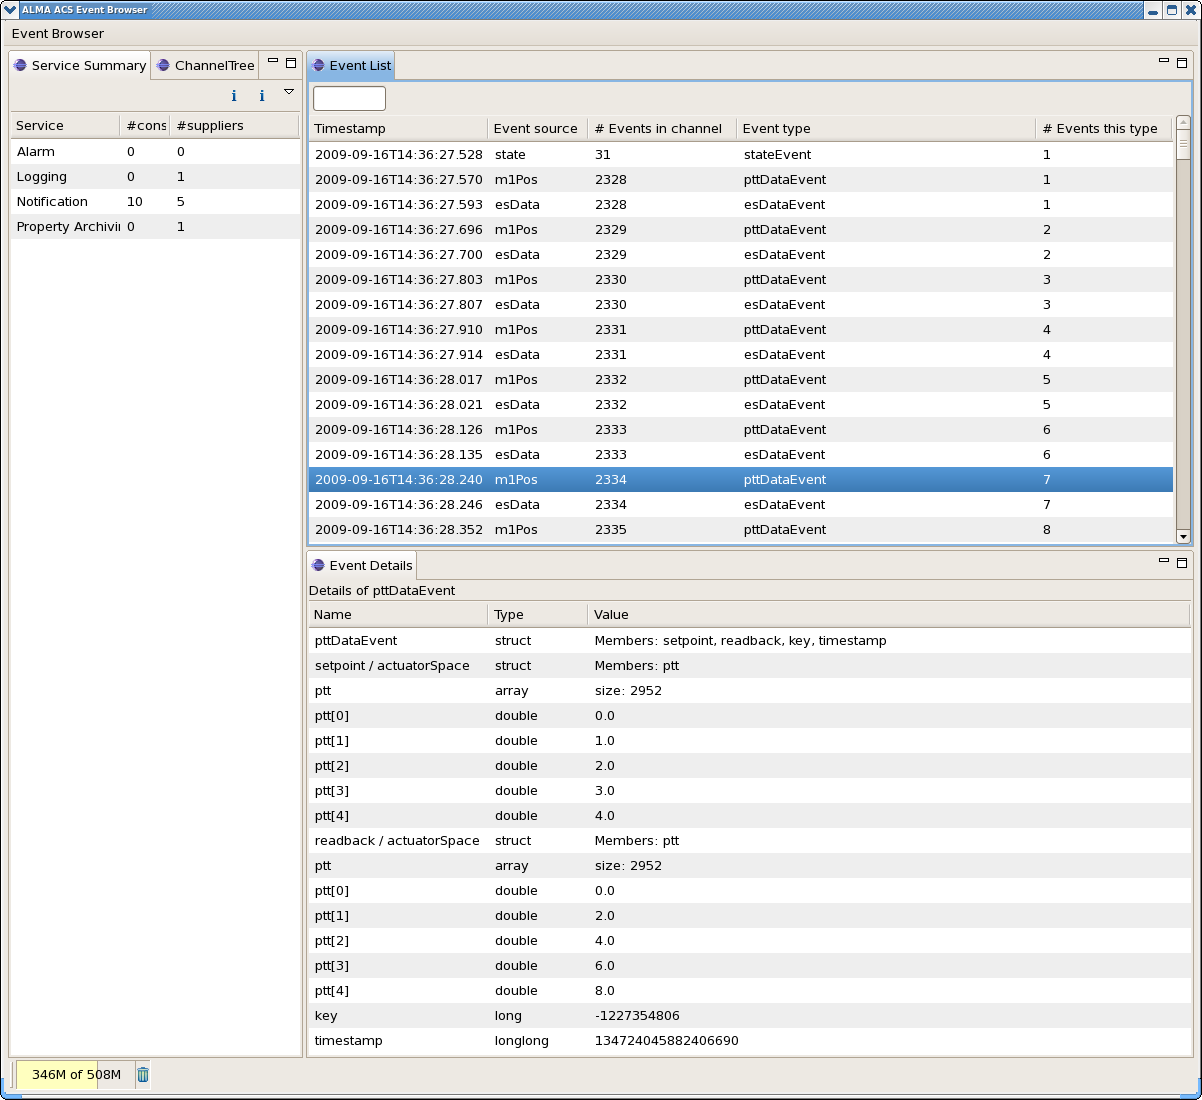
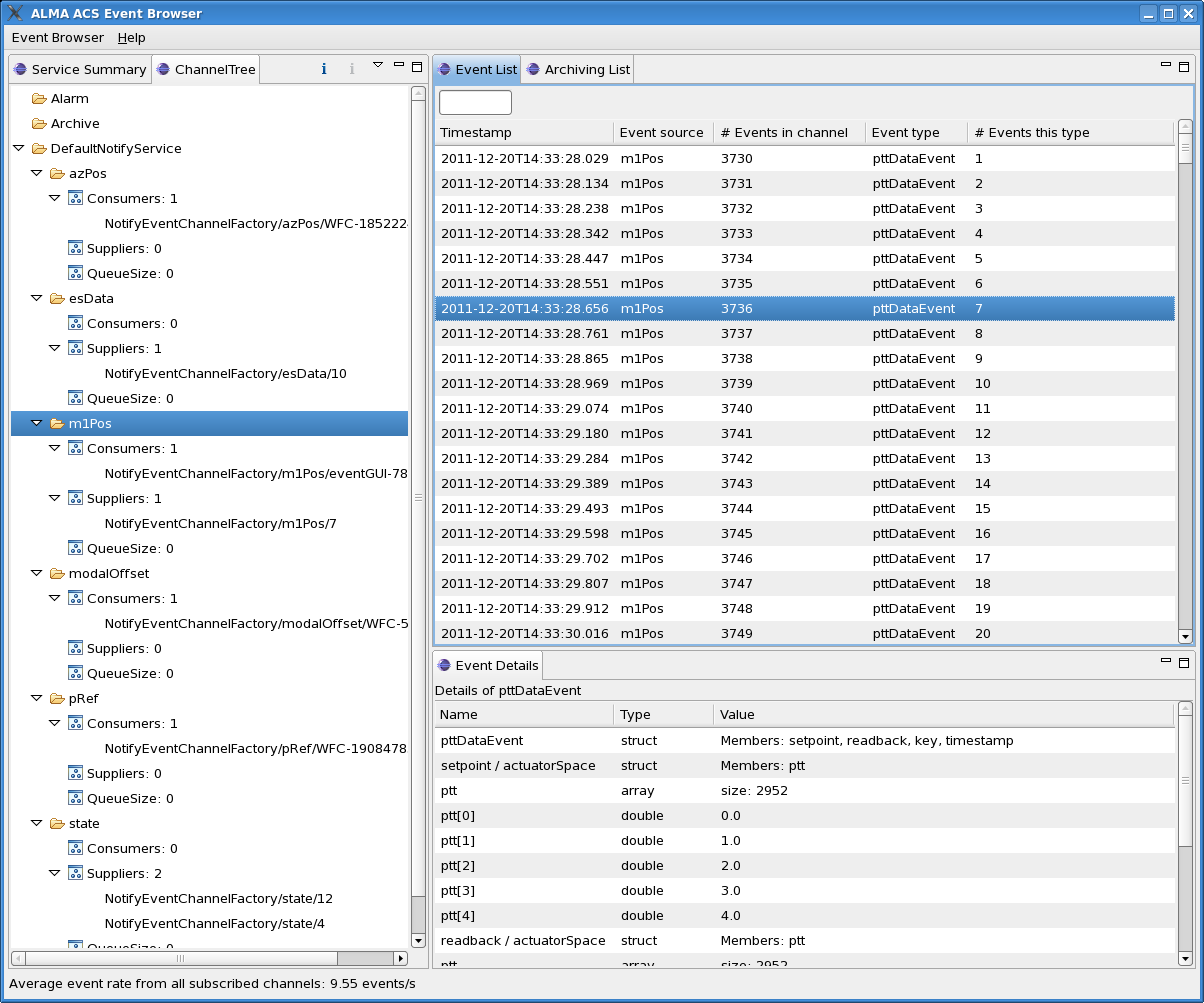
Online help docs and screenshot have been updated to describe new functionality: selective subscribe/unsubscribe, TAO M&C Statistics display, subscribed event rate in status bar.
git-svn-id: https://alma-svn.aoc.nrao.edu/p2/trunk/ACS@167016 523d945c-050c-4681-91ec-863ad3bb968a

Changed region(s): [[0.0, 0.0, 1.0, 1.0], [0.5849, 0.7109, 0.8619, 0.8036], [0.5849, 0.8036, 0.6156, 0.8654]]

diff --git a/LGPL/CommonSoftware/acsGUIs/eventGUI/html/concepts/maintopic.html b/LGPL/CommonSoftware/acsGUIs/eventGUI/html/concepts/maintopic.html
@@ -11,7 +11,10 @@
 The eventGUI is intended as a replacement for the Python-based acseventbrowser,
 which has shown stability problems in the past. The new, Eclipse RCP (Java)-based
 eventGUI does not include all the functionality that was offered by its
-predecessor, but should be easier to use and understand.
+predecessor, but has other functionality not in the Python-based application, namely,
+the display of pertinent statistics about the Notify Service and its channels provided by
+the TAO Monitor and Control extensions to the Notify Service. The eventGUI should also
+be easier to use and understand.
 <br>
 <table class="../images/eventGUI.png">
 <caption align="bottom"><b>The main Event GUI screen, with the Event Detail View displayed in the lower right-hand quadrant.</b></caption>
@@ -38,6 +41,23 @@ anywhere on the View and select "Start monitoring"), the recent (within the last
 10 seconds) increase or decrease in the number of suppliers/consumers will be
 shown next to the totals.
 <h2>Channel Tree View</h2>
+This hierarchical view shows, for each Notify Service instance, the channels that exist within that instance,
+the numbers and names of components (or, for C++, containers of components) that are subscribing to or consuming
+events on that channel. The current size of the event queue for each channel, which is normally zero for a
+well-behaved system, is also shown. When the queue size for a channel is &gt; 0, a list of the slowest
+consumers on that channel is displayed.
+
+For each channel, right-clicking on the channel name offers the option to subscribe or unsubscribe (if
+already subscribed) to all events on that channel. There will normally be a delay of up to 60 seconds
+before the subscription becomes effective, since that is the refresh cycle time for the monitoring thread
+in the eventGUI. Unsubscribing, on the other hand, is nearly immediate. 
+
+A shortcut which allows you to
+subscribe to all events on all channels at once (which mimics the previous default behavior of the eventGUI)
+is available in the View's drop-down menu. <b>You are advised not to do this on a full-up ALMA system, as
+the eventGUI will almost surely not be able to keep up with an influx of several hundred events/s; this, in
+turn, can impact the performance of the Notify Service itself and, if prolonged, lead to exhaustion of the
+Notify Service's memory.</b>
 <h2>Event List View</h2>
 Unless filtering (see below) is active, this View displays a scrolling list
 of events, updated roughly once per second. A handful of high-level fields are shown
@@ -52,6 +72,10 @@ for each event, namely:
 Available memory is checked periodically, and when a low-water mark is reached, the
 oldest events will be deleted from the list. Note the contrast between this behavior and
 that of <tt>jlog</tt>, which can buffer log records to disk.
+
+When this View is selected, the latest 10-second average of the arriving event rate (for those channels
+to which the eventGUI is subscribing) is displayed in the status bar at the very bottom of the eventGUI
+main window.
 <h3>Filtering</h3>
 This facility, most assuredly in a preliminary, experimental state, can select which <i>incoming</i> events
 to display based on their type. Entering any part of a regular expression into the box

diff --git a/LGPL/CommonSoftware/eventGUI/html/concepts/maintopic.html b/LGPL/CommonSoftware/eventGUI/html/concepts/maintopic.html
@@ -11,7 +11,10 @@
 The eventGUI is intended as a replacement for the Python-based acseventbrowser,
 which has shown stability problems in the past. The new, Eclipse RCP (Java)-based
 eventGUI does not include all the functionality that was offered by its
-predecessor, but should be easier to use and understand.
+predecessor, but has other functionality not in the Python-based application, namely,
+the display of pertinent statistics about the Notify Service and its channels provided by
+the TAO Monitor and Control extensions to the Notify Service. The eventGUI should also
+be easier to use and understand.
 <br>
 <table class="../images/eventGUI.png">
 <caption align="bottom"><b>The main Event GUI screen, with the Event Detail View displayed in the lower right-hand quadrant.</b></caption>
@@ -38,6 +41,23 @@ anywhere on the View and select "Start monitoring"), the recent (within the last
 10 seconds) increase or decrease in the number of suppliers/consumers will be
 shown next to the totals.
 <h2>Channel Tree View</h2>
+This hierarchical view shows, for each Notify Service instance, the channels that exist within that instance,
+the numbers and names of components (or, for C++, containers of components) that are subscribing to or consuming
+events on that channel. The current size of the event queue for each channel, which is normally zero for a
+well-behaved system, is also shown. When the queue size for a channel is &gt; 0, a list of the slowest
+consumers on that channel is displayed.
+
+For each channel, right-clicking on the channel name offers the option to subscribe or unsubscribe (if
+already subscribed) to all events on that channel. There will normally be a delay of up to 60 seconds
+before the subscription becomes effective, since that is the refresh cycle time for the monitoring thread
+in the eventGUI. Unsubscribing, on the other hand, is nearly immediate. 
+
+A shortcut which allows you to
+subscribe to all events on all channels at once (which mimics the previous default behavior of the eventGUI)
+is available in the View's drop-down menu. <b>You are advised not to do this on a full-up ALMA system, as
+the eventGUI will almost surely not be able to keep up with an influx of several hundred events/s; this, in
+turn, can impact the performance of the Notify Service itself and, if prolonged, lead to exhaustion of the
+Notify Service's memory.</b>
 <h2>Event List View</h2>
 Unless filtering (see below) is active, this View displays a scrolling list
 of events, updated roughly once per second. A handful of high-level fields are shown
@@ -52,6 +72,10 @@ for each event, namely:
 Available memory is checked periodically, and when a low-water mark is reached, the
 oldest events will be deleted from the list. Note the contrast between this behavior and
 that of <tt>jlog</tt>, which can buffer log records to disk.
+
+When this View is selected, the latest 10-second average of the arriving event rate (for those channels
+to which the eventGUI is subscribing) is displayed in the status bar at the very bottom of the eventGUI
+main window.
 <h3>Filtering</h3>
 This facility, most assuredly in a preliminary, experimental state, can select which <i>incoming</i> events
 to display based on their type. Entering any part of a regular expression into the box
